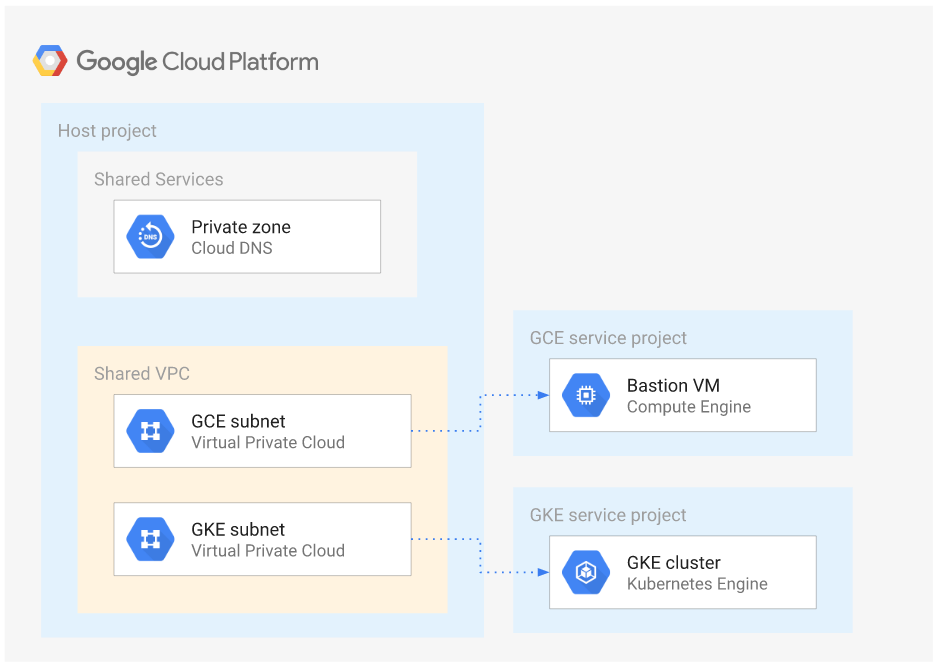
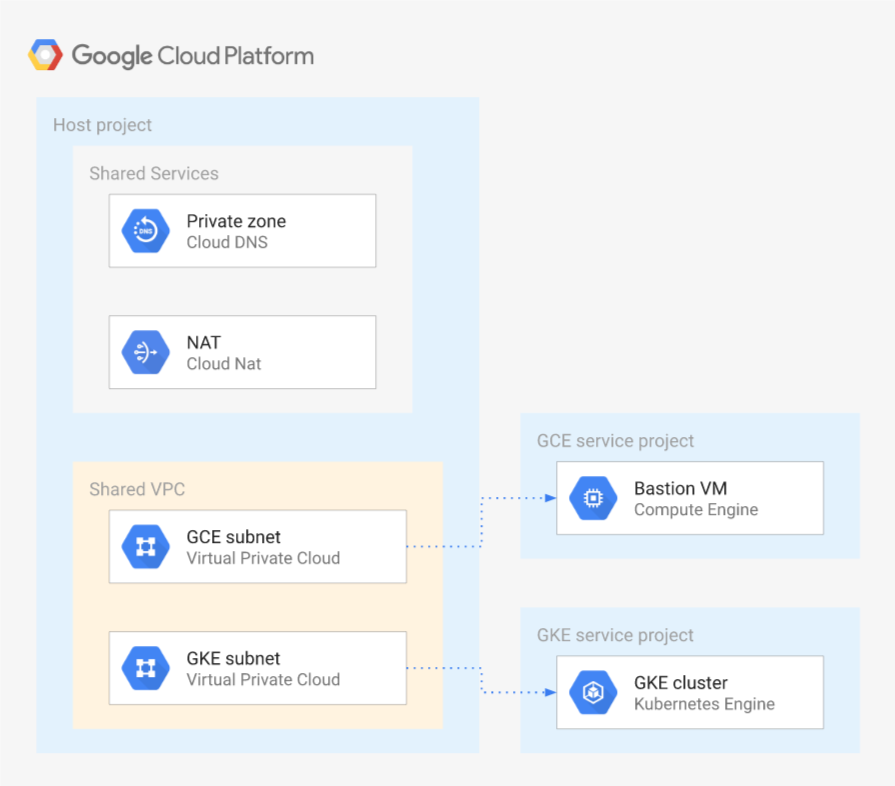
update diagram and README

diff --git a/infrastructure/shared-vpc/README.md b/infrastructure/shared-vpc/README.md
@@ -1,8 +1,8 @@
 # Shared VPC sample
 
-This sample creates a basic [Shared VPC](https://cloud.google.com/vpc/docs/shared-vpc) infrastructure, where two service projects are connected to separate subnets, and the host project exposes Cloud DNS and Cloud KMS as centralized services. The service projects are slightly different, as they are meant to illustrate the IAM-level differences that need to be taken into account when sharing subnets for GCE or GKE.
+This sample creates a basic [Shared VPC](https://cloud.google.com/vpc/docs/shared-vpc) setup using one host project and two service projects, each with a specific subnet in the shared VPC. The setup also includes the specific IAM-level configurations needed for [GKE on Shared VPC](https://cloud.google.com/kubernetes-engine/docs/how-to/cluster-shared-vpc) to enable cluster creation in one of the two service projects.
 
-The purpose of this sample is showing how to wire different [Cloud Foundation Fabric](https://github.com/search?q=topic%3Acft-fabric+org%3Aterraform-google-modules&type=Repositories) modules to create Shared VPC infrastructures, and as such it is meant to be used for prototyping, or to experiment with networking configurations. Additional best practices and security considerations need to be taken into account for real world usage (eg removal of default service accounts, disabling of external IPs, firewall design, etc).
+The sample has been purposefully kept simple so that it can be used as a basis for different Shared VPC configurations. This is the high level diagram:
 
 ![High-level diagram](diagram.png "High-level diagram")
 
@@ -10,26 +10,39 @@ The purpose of this sample is showing how to wire different [Cloud Foundation Fa
 
 This sample creates several distinct groups of resources:
 
-- three projects (Shared VPC host and two service projects)
-- VPC-level resources (VPC, subnets, firewall rules, etc.) in the host project
-- one internal Cloud DNS zone in the host project
-- one Cloud KMS keyring with one key in the host project
-- IAM roles to wire all the above resource together
-- one test instance in each project, with their associated DNS records
+- projects
+  - host project
+  - service project configured for GKE clusters
+  - service project configured for GCE instances
+- networking
+  - the VPC network
+  - one subnet with secondary ranges for GKE clusters
+  - one subnet for GCE instances
+  - firewall rules for SSH access via IAP and open communication within the VPC
+  - Cloud NAT service with a reserved address
+- IAM
+  - one service account for the bastion CGE instance
+  - one service account for the GKE nodes
+  - optional owner role bindings on each project
+  - optional [OS Login](https://cloud.google.com/compute/docs/oslogin/) role bindings on the GCE service project
+  - role bindings to allow the GCE instance and GKE nodes logging and monitoring write access
+  - role binding to allow the GCE instance cluster access
+- DNS
+  - one private zone
+- GCE
+  - one instance used to access the internal GKE cluster
+- GKE
+  - one private cluster with one nodepool
 
-## Test resources
+## Accessing the bastion instance and GKE cluster
 
-A set of test resources are included for convenience, as they facilitate experimenting with different networking configurations (firewall rules, external connectivity via VPN, etc.). They are encapsulated in the `test-resources.tf` file, and can be safely removed as a single unit.
+The bastion VM has no public address so access is mediated via [IAP](https://cloud.google.com/iap/docs), which is supported transparently in the `gcloud compute ssh` command. Authentication is via OS Login set as a project default.
 
-SSH access to instances is configured via [OS Login](https://cloud.google.com/compute/docs/oslogin/), except for the GKE project instance since [GKE nodes do not support OS Login](https://cloud.google.com/compute/docs/instances/managing-instance-access#limitations). To access the GKe instance, use a SSH key set at the project or instance level. External access is allowed via the default SSH rule created by the firewall module, and corresponding `ssh` tags on the instances.
-
-The GCE instance is somewhat special, as it's configured to run a containerized MySQL server using the [`cos-mysql` module](https://github.com/terraform-google-modules/terraform-google-container-vm/tree/master/modules/cos-mysql), to show a practical example of using this module with KMS encryption for its secret, and to demonstrate how to define a custom firewall rule in the firewall module.
-
-The networking and GKE instances have `dig` and the `mysql` client installed via startup scripts, so that tests can be run as soon as they are created.
+Cluster access from the bastion can leverage the instance service account's `container.developer` role: the only configuration needed is to fetch cluster credentials via `gcloud container clusters get-credentials` passing the correct cluster name, location and project via command options.
 
 ## Destroying
 
-There's a minor glitch that can surface running `terraform destroy`, with a simple workaround. The glitch is due to a delay between the API reporting service project removal from the Shared VPC as successful (`google_compute_shared_vpc_service_project` resources destroyed), and the Shared VPC resource being aligned with that event. This results in an error that prevents disabling the Shared VPC feature: `Error disabling Shared VPC Host [...] Cannot disable project as a shared VPC host because it has active service projects.`. The workaround is to run `terraform destroy` again after a few seconds, giving the Shared VPC resource time to be in sync with service project removal.
+There's a minor glitch that can surface running `terraform destroy`, where the service project attachments to the Shared VPC will not get destroyed even with the relevant API call succeeding. We are investigating the issue, in the meantime just manually remove the attachment in the Cloud console or via the `gcloud` command when `terraform destroy` fails, and then relaunch the command.
 
 <!-- BEGIN TFDOC -->
 ## Variables
